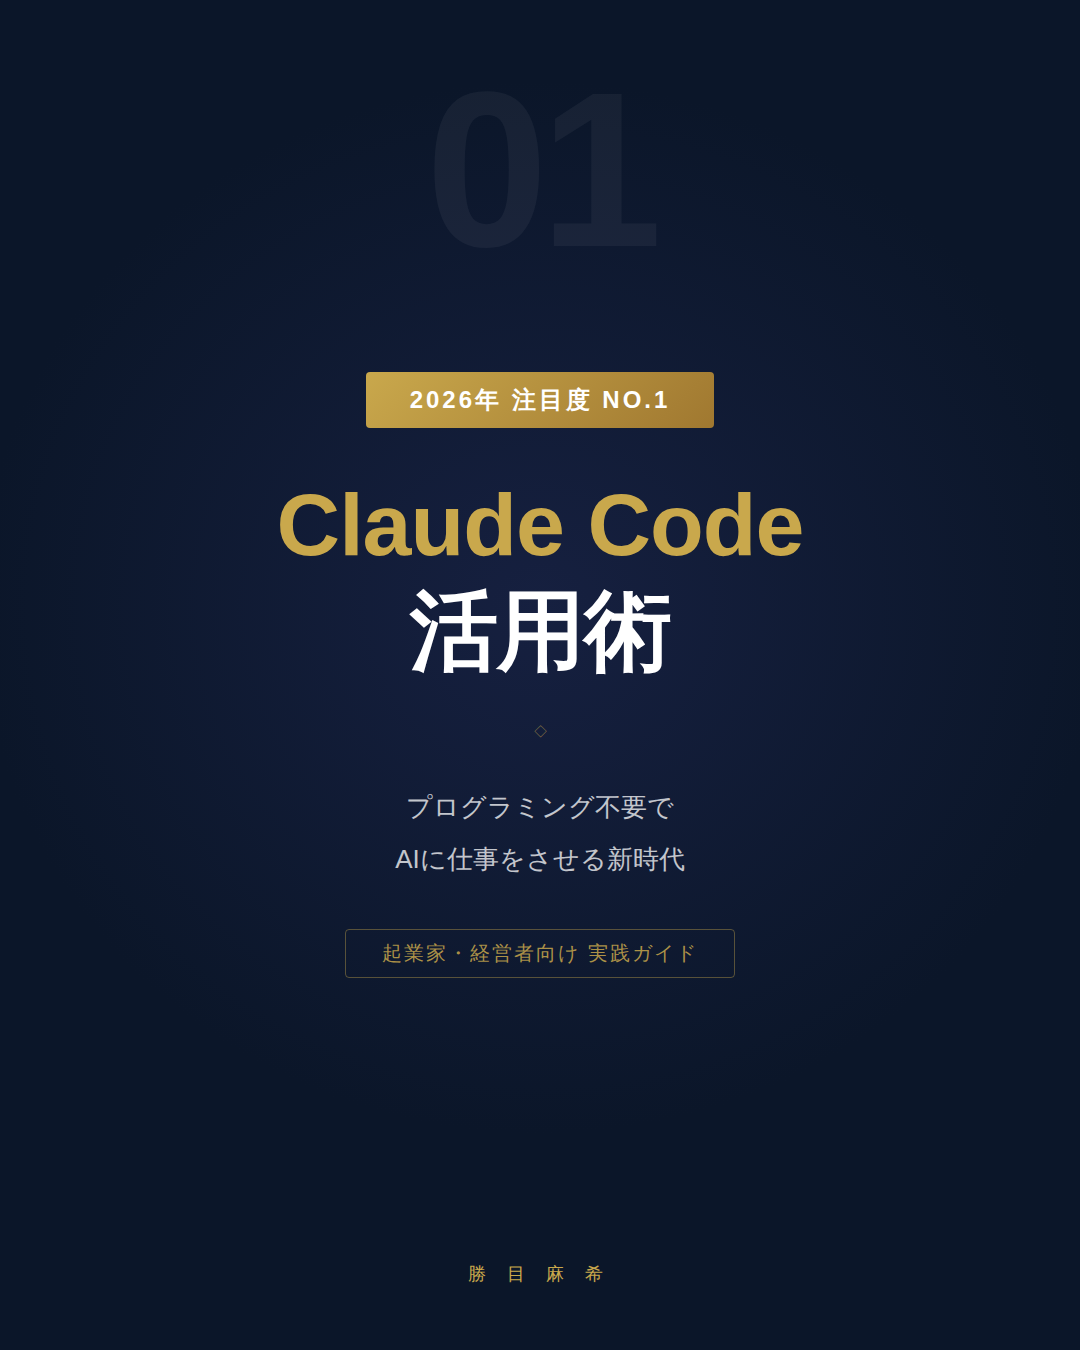
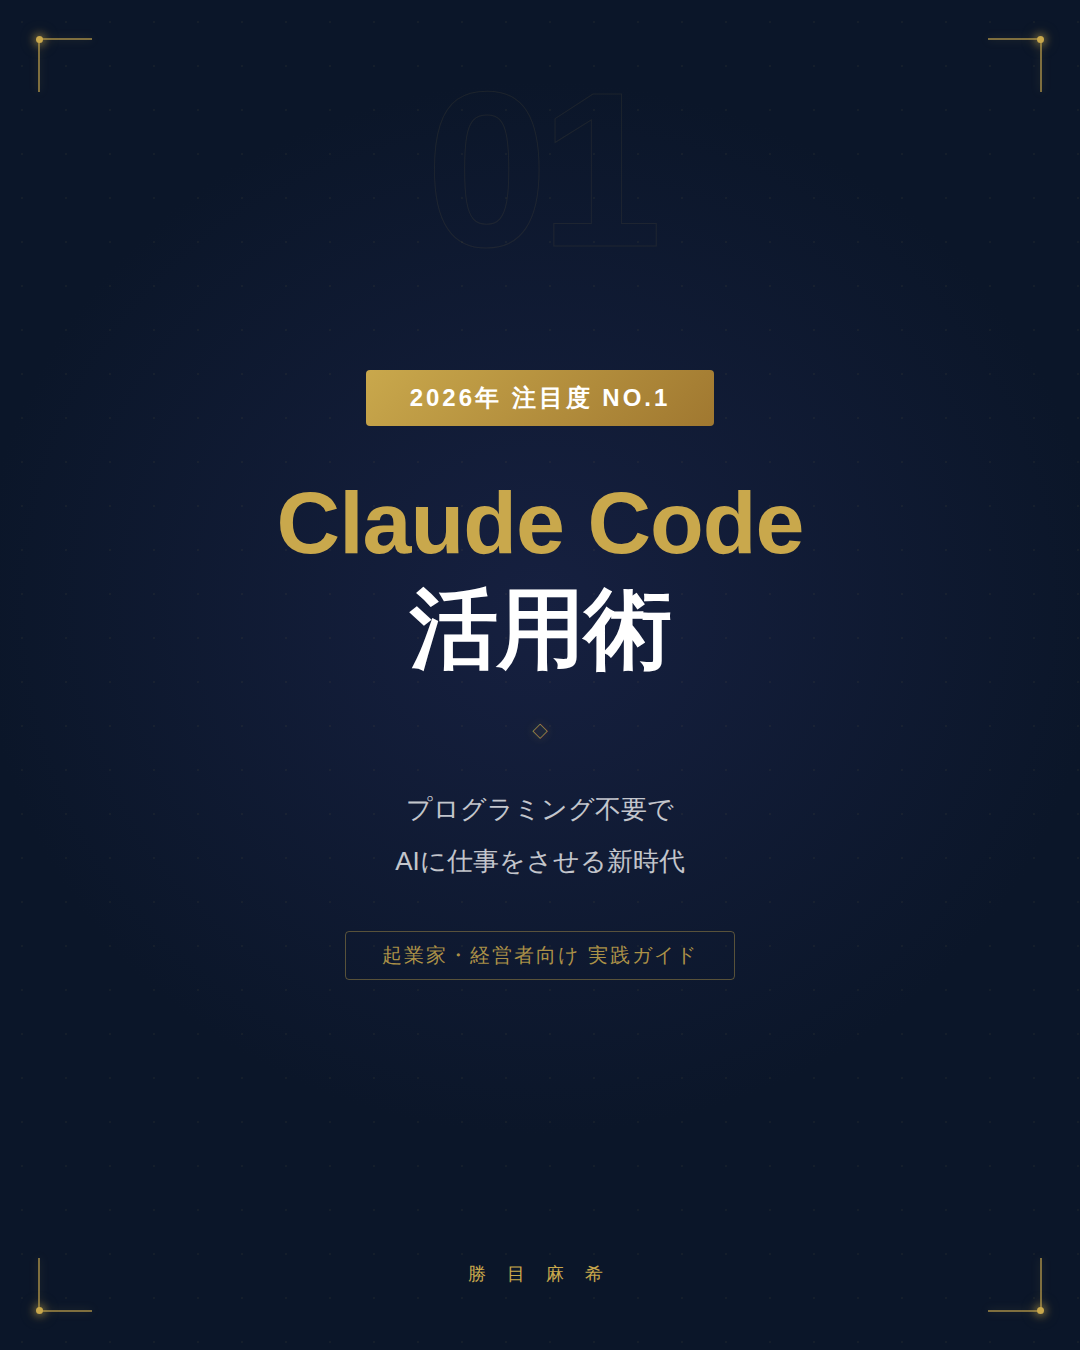
Add digital tech decorations to Claude Code carousel slides
- Dot grid background overlay on all 8 slides
- Tech corner brackets with glowing gold dots at all corners
- Neon glow divider lines (gradient + box-shadow)
- Outline-style bg slide numbers (-webkit-text-stroke)
- Regenerate posts/20260416/ PNGs with new design

https://claude.ai/code/session_01Myk739NMdXCS8a9enhgTma

diff --git a/posts/20260416/slide-08.html b/posts/20260416/slide-08.html
@@ -6,22 +6,32 @@
 <style>
 *{margin:0;padding:0;box-sizing:border-box}
 html,body{width:1080px;height:1350px;overflow:hidden;font-family:'Noto Sans JP',sans-serif}
+.tc{position:absolute;width:54px;height:54px;border-style:solid;border-color:rgba(201,168,76,0.6);filter:drop-shadow(0 0 4px rgba(201,168,76,0.35))}
+.tc.tl{top:38px;left:38px;border-width:2px 0 0 2px}
+.tc.tr{top:38px;right:38px;border-width:2px 2px 0 0}
+.tc.bl{bottom:38px;left:38px;border-width:0 0 2px 2px}
+.tc.br{bottom:38px;right:38px;border-width:0 2px 2px 0}
+.tc::before{content:'';position:absolute;width:7px;height:7px;border-radius:50%;background:#c9a84c;box-shadow:0 0 10px rgba(201,168,76,0.9),0 0 18px rgba(201,168,76,0.4)}
+.tc.tl::before{top:-4px;left:-4px}.tc.tr::before{top:-4px;right:-4px}
+.tc.bl::before{bottom:-4px;left:-4px}.tc.br::before{bottom:-4px;right:-4px}
 body{
-  background:radial-gradient(ellipse 80% 60% at 50% 45%,#162040 0%,#0b1629 65%);
+  background-image:
+    radial-gradient(circle,rgba(201,168,76,0.055) 1px,transparent 1px),
+    radial-gradient(ellipse 80% 60% at 50% 45%,#162040 0%,#0b1629 65%);
+  background-size:44px 44px,100% 100%;
   display:flex;flex-direction:column;align-items:center;justify-content:center;
   padding:80px 90px;position:relative;color:#fff;text-align:center;
 }
-/* Corner brackets */
-.cb{position:absolute;width:60px;height:60px;border-color:rgba(201,168,76,0.4);border-style:solid}
-.cb.tl{top:44px;left:44px;border-width:2px 0 0 2px}
-.cb.tr{top:44px;right:44px;border-width:2px 2px 0 0}
-.cb.bl{bottom:44px;left:44px;border-width:0 0 2px 2px}
-.cb.br{bottom:44px;right:44px;border-width:0 2px 2px 0}
+.bg-num{
+  position:absolute;top:60px;left:50%;transform:translateX(-50%);
+  font-size:220px;font-weight:900;color:transparent;-webkit-text-stroke:1px rgba(201,168,76,0.09);
+  line-height:1;pointer-events:none;white-space:nowrap;letter-spacing:-8px;
+}
 h2{font-size:60px;font-weight:900;color:#c9a84c;line-height:1.3;margin-bottom:28px}
 .sub-white{font-size:28px;color:rgba(255,255,255,0.88);line-height:2;margin-bottom:28px}
 .divider{display:flex;align-items:center;gap:14px;margin:0 auto 36px;max-width:280px}
-.divider::before,.divider::after{content:'';flex:1;height:1px;background:rgba(201,168,76,0.4)}
-.divider span{color:rgba(201,168,76,0.7);font-size:13px}
+.divider::before,.divider::after{content:'';flex:1;height:1px;background:linear-gradient(90deg,transparent,rgba(201,168,76,0.65),transparent);box-shadow:0 0 6px rgba(201,168,76,0.25)}
+.divider span{color:#c9a84c;font-size:16px;text-shadow:0 0 8px rgba(201,168,76,0.8)}
 .body{font-size:28px;color:rgba(255,255,255,0.88);line-height:2;margin-bottom:16px}
 .note{font-size:20px;color:rgba(255,255,255,0.4);line-height:1.9;margin-bottom:48px}
 .brand-wrap{display:flex;flex-direction:column;align-items:center;gap:8px}
@@ -30,10 +40,9 @@ h2{font-size:60px;font-weight:900;color:#c9a84c;line-height:1.3;margin-bottom:28
 </style>
 </head>
 <body>
-  <div class="cb tl"></div>
-  <div class="cb tr"></div>
-  <div class="cb bl"></div>
-  <div class="cb br"></div>
+  <div class="tc tl"></div><div class="tc tr"></div>
+  <div class="tc bl"></div><div class="tc br"></div>
+  <div class="bg-num">08</div>
   <h2>AIを活用して<br>「できること」を<br>一緒に広げませんか？</h2>
   <p class="sub-white">AI活用のご相談、<br>お気軽にどうぞ。</p>
   <div class="divider"><span>◇</span></div>

diff --git a/posts/20260416/slide-05.html b/posts/20260416/slide-05.html
@@ -6,25 +6,31 @@
 <style>
 *{margin:0;padding:0;box-sizing:border-box}
 html,body{width:1080px;height:1350px;overflow:hidden;font-family:'Noto Sans JP',sans-serif}
+.tc{position:absolute;width:54px;height:54px;border-style:solid;border-color:rgba(201,168,76,0.6);filter:drop-shadow(0 0 4px rgba(201,168,76,0.35))}
+.tc.tl{top:38px;left:38px;border-width:2px 0 0 2px}
+.tc.tr{top:38px;right:38px;border-width:2px 2px 0 0}
+.tc.bl{bottom:38px;left:38px;border-width:0 0 2px 2px}
+.tc.br{bottom:38px;right:38px;border-width:0 2px 2px 0}
+.tc::before{content:'';position:absolute;width:7px;height:7px;border-radius:50%;background:#c9a84c;box-shadow:0 0 10px rgba(201,168,76,0.9),0 0 18px rgba(201,168,76,0.4)}
+.tc.tl::before{top:-4px;left:-4px}.tc.tr::before{top:-4px;right:-4px}
+.tc.bl::before{bottom:-4px;left:-4px}.tc.br::before{bottom:-4px;right:-4px}
 body{
-  background:radial-gradient(ellipse 80% 60% at 50% 45%,#162040 0%,#0b1629 65%);
+  background-image:
+    radial-gradient(circle,rgba(201,168,76,0.055) 1px,transparent 1px),
+    radial-gradient(ellipse 80% 60% at 50% 45%,#162040 0%,#0b1629 65%);
+  background-size:44px 44px,100% 100%;
   display:flex;flex-direction:column;align-items:center;justify-content:center;
   padding:80px 90px;position:relative;color:#fff;text-align:center;
 }
 .bg-num{
   position:absolute;top:60px;left:50%;transform:translateX(-50%);
-  font-size:220px;font-weight:900;color:rgba(255,255,255,0.05);
+  font-size:220px;font-weight:900;color:transparent;-webkit-text-stroke:1px rgba(201,168,76,0.09);
   line-height:1;pointer-events:none;white-space:nowrap;letter-spacing:-8px;
-}
-/* Corner diamond decorations */
-.cdiamond{
-  position:absolute;width:38px;height:38px;
-  border:1.5px solid rgba(201,168,76,0.35);transform:rotate(45deg);
 }
 h2{font-size:56px;font-weight:900;color:#c9a84c;line-height:1.3;margin-bottom:28px}
 .divider{display:flex;align-items:center;gap:14px;margin:0 auto 40px;max-width:280px}
-.divider::before,.divider::after{content:'';flex:1;height:1px;background:rgba(201,168,76,0.4)}
-.divider span{color:rgba(201,168,76,0.7);font-size:13px}
+.divider::before,.divider::after{content:'';flex:1;height:1px;background:linear-gradient(90deg,transparent,rgba(201,168,76,0.65),transparent);box-shadow:0 0 6px rgba(201,168,76,0.25)}
+.divider span{color:#c9a84c;font-size:16px;text-shadow:0 0 8px rgba(201,168,76,0.8)}
 .body{font-size:28px;color:rgba(255,255,255,0.88);line-height:2;margin-bottom:24px}
 .accent{color:#c9a84c;font-weight:700}
 .brand{
@@ -34,9 +40,9 @@ h2{font-size:56px;font-weight:900;color:#c9a84c;line-height:1.3;margin-bottom:28
 </style>
 </head>
 <body>
+  <div class="tc tl"></div><div class="tc tr"></div>
+  <div class="tc bl"></div><div class="tc br"></div>
   <div class="bg-num">05</div>
-  <div class="cdiamond" style="top:52px;right:52px"></div>
-  <div class="cdiamond" style="bottom:120px;left:52px"></div>
   <h2>「Skills」で<br>繰り返し作業を自動化</h2>
   <div class="divider"><span>◇</span></div>
   <p class="body">毎回同じ指示を出すのは<br>面倒ですよね。</p>

diff --git a/posts/20260416/slide-01.html b/posts/20260416/slide-01.html
@@ -6,14 +6,25 @@
 <style>
 *{margin:0;padding:0;box-sizing:border-box}
 html,body{width:1080px;height:1350px;overflow:hidden;font-family:'Noto Sans JP',sans-serif}
+.tc{position:absolute;width:54px;height:54px;border-style:solid;border-color:rgba(201,168,76,0.6);filter:drop-shadow(0 0 4px rgba(201,168,76,0.35))}
+.tc.tl{top:38px;left:38px;border-width:2px 0 0 2px}
+.tc.tr{top:38px;right:38px;border-width:2px 2px 0 0}
+.tc.bl{bottom:38px;left:38px;border-width:0 0 2px 2px}
+.tc.br{bottom:38px;right:38px;border-width:0 2px 2px 0}
+.tc::before{content:'';position:absolute;width:7px;height:7px;border-radius:50%;background:#c9a84c;box-shadow:0 0 10px rgba(201,168,76,0.9),0 0 18px rgba(201,168,76,0.4)}
+.tc.tl::before{top:-4px;left:-4px}.tc.tr::before{top:-4px;right:-4px}
+.tc.bl::before{bottom:-4px;left:-4px}.tc.br::before{bottom:-4px;right:-4px}
 body{
-  background:radial-gradient(ellipse 80% 60% at 50% 45%,#162040 0%,#0b1629 65%);
+  background-image:
+    radial-gradient(circle,rgba(201,168,76,0.055) 1px,transparent 1px),
+    radial-gradient(ellipse 80% 60% at 50% 45%,#162040 0%,#0b1629 65%);
+  background-size:44px 44px,100% 100%;
   display:flex;flex-direction:column;align-items:center;justify-content:center;
   padding:80px 90px;position:relative;color:#fff;text-align:center;
 }
 .bg-num{
   position:absolute;top:60px;left:50%;transform:translateX(-50%);
-  font-size:220px;font-weight:900;color:rgba(255,255,255,0.05);
+  font-size:220px;font-weight:900;color:transparent;-webkit-text-stroke:1px rgba(201,168,76,0.09);
   line-height:1;pointer-events:none;white-space:nowrap;letter-spacing:-8px;
 }
 .no1-badge{
@@ -24,8 +35,8 @@ body{
 h1{font-size:88px;font-weight:900;line-height:1.2;color:#fff;margin-bottom:40px;letter-spacing:-1px}
 .gold{color:#c9a84c}
 .divider{display:flex;align-items:center;gap:14px;margin:0 auto 40px;max-width:280px}
-.divider::before,.divider::after{content:'';flex:1;height:1px;background:rgba(201,168,76,0.4)}
-.divider span{color:rgba(201,168,76,0.7);font-size:13px}
+.divider::before,.divider::after{content:'';flex:1;height:1px;background:linear-gradient(90deg,transparent,rgba(201,168,76,0.65),transparent);box-shadow:0 0 6px rgba(201,168,76,0.25)}
+.divider span{color:#c9a84c;font-size:16px;text-shadow:0 0 8px rgba(201,168,76,0.8)}
 .sub{font-size:26px;color:rgba(255,255,255,0.75);line-height:2;margin-bottom:44px}
 .tag{
   display:inline-block;border:1px solid rgba(201,168,76,0.4);
@@ -39,6 +50,8 @@ h1{font-size:88px;font-weight:900;line-height:1.2;color:#fff;margin-bottom:40px;
 </style>
 </head>
 <body>
+  <div class="tc tl"></div><div class="tc tr"></div>
+  <div class="tc bl"></div><div class="tc br"></div>
   <div class="bg-num">01</div>
   <div class="no1-badge">2026年 注目度 NO.1</div>
   <h1><span class="gold">Claude Code</span><br>活用術</h1>

diff --git a/posts/20260416/slide-03.html b/posts/20260416/slide-03.html
@@ -6,20 +6,31 @@
 <style>
 *{margin:0;padding:0;box-sizing:border-box}
 html,body{width:1080px;height:1350px;overflow:hidden;font-family:'Noto Sans JP',sans-serif}
+.tc{position:absolute;width:54px;height:54px;border-style:solid;border-color:rgba(201,168,76,0.6);filter:drop-shadow(0 0 4px rgba(201,168,76,0.35))}
+.tc.tl{top:38px;left:38px;border-width:2px 0 0 2px}
+.tc.tr{top:38px;right:38px;border-width:2px 2px 0 0}
+.tc.bl{bottom:38px;left:38px;border-width:0 0 2px 2px}
+.tc.br{bottom:38px;right:38px;border-width:0 2px 2px 0}
+.tc::before{content:'';position:absolute;width:7px;height:7px;border-radius:50%;background:#c9a84c;box-shadow:0 0 10px rgba(201,168,76,0.9),0 0 18px rgba(201,168,76,0.4)}
+.tc.tl::before{top:-4px;left:-4px}.tc.tr::before{top:-4px;right:-4px}
+.tc.bl::before{bottom:-4px;left:-4px}.tc.br::before{bottom:-4px;right:-4px}
 body{
-  background:radial-gradient(ellipse 80% 60% at 50% 45%,#162040 0%,#0b1629 65%);
+  background-image:
+    radial-gradient(circle,rgba(201,168,76,0.055) 1px,transparent 1px),
+    radial-gradient(ellipse 80% 60% at 50% 45%,#162040 0%,#0b1629 65%);
+  background-size:44px 44px,100% 100%;
   display:flex;flex-direction:column;align-items:center;justify-content:center;
   padding:80px 90px;position:relative;color:#fff;text-align:center;
 }
 .bg-num{
   position:absolute;top:60px;left:50%;transform:translateX(-50%);
-  font-size:220px;font-weight:900;color:rgba(255,255,255,0.05);
+  font-size:220px;font-weight:900;color:transparent;-webkit-text-stroke:1px rgba(201,168,76,0.09);
   line-height:1;pointer-events:none;white-space:nowrap;letter-spacing:-8px;
 }
 h2{font-size:56px;font-weight:900;color:#c9a84c;line-height:1.3;margin-bottom:28px}
 .divider{display:flex;align-items:center;gap:14px;margin:0 auto 40px;max-width:280px}
-.divider::before,.divider::after{content:'';flex:1;height:1px;background:rgba(201,168,76,0.4)}
-.divider span{color:rgba(201,168,76,0.7);font-size:13px}
+.divider::before,.divider::after{content:'';flex:1;height:1px;background:linear-gradient(90deg,transparent,rgba(201,168,76,0.65),transparent);box-shadow:0 0 6px rgba(201,168,76,0.25)}
+.divider span{color:#c9a84c;font-size:16px;text-shadow:0 0 8px rgba(201,168,76,0.8)}
 .body{font-size:28px;color:rgba(255,255,255,0.88);line-height:2;margin-bottom:24px}
 .accent{color:#c9a84c;font-weight:700}
 .large{font-size:32px;color:rgba(255,255,255,0.95);font-weight:500;line-height:1.7;margin-bottom:28px}
@@ -31,6 +42,8 @@ h2{font-size:56px;font-weight:900;color:#c9a84c;line-height:1.3;margin-bottom:28
 </style>
 </head>
 <body>
+  <div class="tc tl"></div><div class="tc tr"></div>
+  <div class="tc bl"></div><div class="tc br"></div>
   <div class="bg-num">03</div>
   <h2>たとえば、<br>LPを自分で作れます</h2>
   <div class="divider"><span>◇</span></div>

diff --git a/posts/20260416/slide-07.html b/posts/20260416/slide-07.html
@@ -6,20 +6,31 @@
 <style>
 *{margin:0;padding:0;box-sizing:border-box}
 html,body{width:1080px;height:1350px;overflow:hidden;font-family:'Noto Sans JP',sans-serif}
+.tc{position:absolute;width:54px;height:54px;border-style:solid;border-color:rgba(201,168,76,0.6);filter:drop-shadow(0 0 4px rgba(201,168,76,0.35))}
+.tc.tl{top:38px;left:38px;border-width:2px 0 0 2px}
+.tc.tr{top:38px;right:38px;border-width:2px 2px 0 0}
+.tc.bl{bottom:38px;left:38px;border-width:0 0 2px 2px}
+.tc.br{bottom:38px;right:38px;border-width:0 2px 2px 0}
+.tc::before{content:'';position:absolute;width:7px;height:7px;border-radius:50%;background:#c9a84c;box-shadow:0 0 10px rgba(201,168,76,0.9),0 0 18px rgba(201,168,76,0.4)}
+.tc.tl::before{top:-4px;left:-4px}.tc.tr::before{top:-4px;right:-4px}
+.tc.bl::before{bottom:-4px;left:-4px}.tc.br::before{bottom:-4px;right:-4px}
 body{
-  background:radial-gradient(ellipse 80% 60% at 50% 45%,#162040 0%,#0b1629 65%);
+  background-image:
+    radial-gradient(circle,rgba(201,168,76,0.055) 1px,transparent 1px),
+    radial-gradient(ellipse 80% 60% at 50% 45%,#162040 0%,#0b1629 65%);
+  background-size:44px 44px,100% 100%;
   display:flex;flex-direction:column;align-items:center;justify-content:center;
   padding:80px 90px;position:relative;color:#fff;text-align:center;
 }
 .bg-num{
   position:absolute;top:60px;left:50%;transform:translateX(-50%);
-  font-size:220px;font-weight:900;color:rgba(255,255,255,0.05);
+  font-size:220px;font-weight:900;color:transparent;-webkit-text-stroke:1px rgba(201,168,76,0.09);
   line-height:1;pointer-events:none;white-space:nowrap;letter-spacing:-8px;
 }
 h2{font-size:56px;font-weight:900;color:#c9a84c;line-height:1.3;margin-bottom:28px}
 .divider{display:flex;align-items:center;gap:14px;margin:0 auto 40px;max-width:280px}
-.divider::before,.divider::after{content:'';flex:1;height:1px;background:rgba(201,168,76,0.4)}
-.divider span{color:rgba(201,168,76,0.7);font-size:13px}
+.divider::before,.divider::after{content:'';flex:1;height:1px;background:linear-gradient(90deg,transparent,rgba(201,168,76,0.65),transparent);box-shadow:0 0 6px rgba(201,168,76,0.25)}
+.divider span{color:#c9a84c;font-size:16px;text-shadow:0 0 8px rgba(201,168,76,0.8)}
 .body{font-size:28px;color:rgba(255,255,255,0.88);line-height:2;margin-bottom:24px}
 .accent{color:#c9a84c;font-weight:700}
 .bold-white{font-size:30px;font-weight:700;color:#fff;line-height:1.8;margin-bottom:24px}
@@ -31,6 +42,8 @@ h2{font-size:56px;font-weight:900;color:#c9a84c;line-height:1.3;margin-bottom:28
 </style>
 </head>
 <body>
+  <div class="tc tl"></div><div class="tc tr"></div>
+  <div class="tc bl"></div><div class="tc br"></div>
   <div class="bg-num">07</div>
   <h2>なぜ今、<br>起業家が使うべきか</h2>
   <div class="divider"><span>◇</span></div>

diff --git a/posts/20260416/slide-04.html b/posts/20260416/slide-04.html
@@ -6,20 +6,31 @@
 <style>
 *{margin:0;padding:0;box-sizing:border-box}
 html,body{width:1080px;height:1350px;overflow:hidden;font-family:'Noto Sans JP',sans-serif}
+.tc{position:absolute;width:54px;height:54px;border-style:solid;border-color:rgba(201,168,76,0.6);filter:drop-shadow(0 0 4px rgba(201,168,76,0.35))}
+.tc.tl{top:38px;left:38px;border-width:2px 0 0 2px}
+.tc.tr{top:38px;right:38px;border-width:2px 2px 0 0}
+.tc.bl{bottom:38px;left:38px;border-width:0 0 2px 2px}
+.tc.br{bottom:38px;right:38px;border-width:0 2px 2px 0}
+.tc::before{content:'';position:absolute;width:7px;height:7px;border-radius:50%;background:#c9a84c;box-shadow:0 0 10px rgba(201,168,76,0.9),0 0 18px rgba(201,168,76,0.4)}
+.tc.tl::before{top:-4px;left:-4px}.tc.tr::before{top:-4px;right:-4px}
+.tc.bl::before{bottom:-4px;left:-4px}.tc.br::before{bottom:-4px;right:-4px}
 body{
-  background:radial-gradient(ellipse 80% 60% at 50% 45%,#162040 0%,#0b1629 65%);
+  background-image:
+    radial-gradient(circle,rgba(201,168,76,0.055) 1px,transparent 1px),
+    radial-gradient(ellipse 80% 60% at 50% 45%,#162040 0%,#0b1629 65%);
+  background-size:44px 44px,100% 100%;
   display:flex;flex-direction:column;align-items:center;justify-content:center;
   padding:80px 90px;position:relative;color:#fff;text-align:center;
 }
 .bg-num{
   position:absolute;top:60px;left:50%;transform:translateX(-50%);
-  font-size:220px;font-weight:900;color:rgba(255,255,255,0.05);
+  font-size:220px;font-weight:900;color:transparent;-webkit-text-stroke:1px rgba(201,168,76,0.09);
   line-height:1;pointer-events:none;white-space:nowrap;letter-spacing:-8px;
 }
 h2{font-size:56px;font-weight:900;color:#c9a84c;line-height:1.3;margin-bottom:28px}
 .divider{display:flex;align-items:center;gap:14px;margin:0 auto 40px;max-width:280px}
-.divider::before,.divider::after{content:'';flex:1;height:1px;background:rgba(201,168,76,0.4)}
-.divider span{color:rgba(201,168,76,0.7);font-size:13px}
+.divider::before,.divider::after{content:'';flex:1;height:1px;background:linear-gradient(90deg,transparent,rgba(201,168,76,0.65),transparent);box-shadow:0 0 6px rgba(201,168,76,0.25)}
+.divider span{color:#c9a84c;font-size:16px;text-shadow:0 0 8px rgba(201,168,76,0.8)}
 .body{font-size:28px;color:rgba(255,255,255,0.88);line-height:2;margin-bottom:24px}
 .accent{color:#c9a84c;font-weight:700}
 .note{font-size:21px;color:rgba(255,255,255,0.45);line-height:1.9;margin-top:8px}
@@ -30,6 +41,8 @@ h2{font-size:56px;font-weight:900;color:#c9a84c;line-height:1.3;margin-bottom:28
 </style>
 </head>
 <body>
+  <div class="tc tl"></div><div class="tc tr"></div>
+  <div class="tc bl"></div><div class="tc br"></div>
   <div class="bg-num">04</div>
   <h2>業務ツールだって<br>作れます</h2>
   <div class="divider"><span>◇</span></div>

diff --git a/posts/20260416/slide-02.html b/posts/20260416/slide-02.html
@@ -6,20 +6,31 @@
 <style>
 *{margin:0;padding:0;box-sizing:border-box}
 html,body{width:1080px;height:1350px;overflow:hidden;font-family:'Noto Sans JP',sans-serif}
+.tc{position:absolute;width:54px;height:54px;border-style:solid;border-color:rgba(201,168,76,0.6);filter:drop-shadow(0 0 4px rgba(201,168,76,0.35))}
+.tc.tl{top:38px;left:38px;border-width:2px 0 0 2px}
+.tc.tr{top:38px;right:38px;border-width:2px 2px 0 0}
+.tc.bl{bottom:38px;left:38px;border-width:0 0 2px 2px}
+.tc.br{bottom:38px;right:38px;border-width:0 2px 2px 0}
+.tc::before{content:'';position:absolute;width:7px;height:7px;border-radius:50%;background:#c9a84c;box-shadow:0 0 10px rgba(201,168,76,0.9),0 0 18px rgba(201,168,76,0.4)}
+.tc.tl::before{top:-4px;left:-4px}.tc.tr::before{top:-4px;right:-4px}
+.tc.bl::before{bottom:-4px;left:-4px}.tc.br::before{bottom:-4px;right:-4px}
 body{
-  background:radial-gradient(ellipse 80% 60% at 50% 45%,#162040 0%,#0b1629 65%);
+  background-image:
+    radial-gradient(circle,rgba(201,168,76,0.055) 1px,transparent 1px),
+    radial-gradient(ellipse 80% 60% at 50% 45%,#162040 0%,#0b1629 65%);
+  background-size:44px 44px,100% 100%;
   display:flex;flex-direction:column;align-items:center;justify-content:center;
   padding:80px 90px;position:relative;color:#fff;text-align:center;
 }
 .bg-num{
   position:absolute;top:60px;left:50%;transform:translateX(-50%);
-  font-size:220px;font-weight:900;color:rgba(255,255,255,0.05);
+  font-size:220px;font-weight:900;color:transparent;-webkit-text-stroke:1px rgba(201,168,76,0.09);
   line-height:1;pointer-events:none;white-space:nowrap;letter-spacing:-8px;
 }
 h2{font-size:58px;font-weight:900;color:#c9a84c;line-height:1.3;margin-bottom:28px}
 .divider{display:flex;align-items:center;gap:14px;margin:0 auto 40px;max-width:280px}
-.divider::before,.divider::after{content:'';flex:1;height:1px;background:rgba(201,168,76,0.4)}
-.divider span{color:rgba(201,168,76,0.7);font-size:13px}
+.divider::before,.divider::after{content:'';flex:1;height:1px;background:linear-gradient(90deg,transparent,rgba(201,168,76,0.65),transparent);box-shadow:0 0 6px rgba(201,168,76,0.25)}
+.divider span{color:#c9a84c;font-size:16px;text-shadow:0 0 8px rgba(201,168,76,0.8)}
 .body{font-size:28px;color:rgba(255,255,255,0.88);line-height:2;margin-bottom:24px}
 .accent{color:#c9a84c;font-weight:700}
 .note{font-size:21px;color:rgba(255,255,255,0.45);line-height:1.9;margin-top:8px}
@@ -30,6 +41,8 @@ h2{font-size:58px;font-weight:900;color:#c9a84c;line-height:1.3;margin-bottom:28
 </style>
 </head>
 <body>
+  <div class="tc tl"></div><div class="tc tr"></div>
+  <div class="tc bl"></div><div class="tc br"></div>
   <div class="bg-num">02</div>
   <h2>Claude Codeって<br>何？</h2>
   <div class="divider"><span>◇</span></div>

diff --git a/posts/20260416/slide-06.html b/posts/20260416/slide-06.html
@@ -6,20 +6,31 @@
 <style>
 *{margin:0;padding:0;box-sizing:border-box}
 html,body{width:1080px;height:1350px;overflow:hidden;font-family:'Noto Sans JP',sans-serif}
+.tc{position:absolute;width:54px;height:54px;border-style:solid;border-color:rgba(201,168,76,0.6);filter:drop-shadow(0 0 4px rgba(201,168,76,0.35))}
+.tc.tl{top:38px;left:38px;border-width:2px 0 0 2px}
+.tc.tr{top:38px;right:38px;border-width:2px 2px 0 0}
+.tc.bl{bottom:38px;left:38px;border-width:0 0 2px 2px}
+.tc.br{bottom:38px;right:38px;border-width:0 2px 2px 0}
+.tc::before{content:'';position:absolute;width:7px;height:7px;border-radius:50%;background:#c9a84c;box-shadow:0 0 10px rgba(201,168,76,0.9),0 0 18px rgba(201,168,76,0.4)}
+.tc.tl::before{top:-4px;left:-4px}.tc.tr::before{top:-4px;right:-4px}
+.tc.bl::before{bottom:-4px;left:-4px}.tc.br::before{bottom:-4px;right:-4px}
 body{
-  background:radial-gradient(ellipse 80% 60% at 50% 45%,#162040 0%,#0b1629 65%);
+  background-image:
+    radial-gradient(circle,rgba(201,168,76,0.055) 1px,transparent 1px),
+    radial-gradient(ellipse 80% 60% at 50% 45%,#162040 0%,#0b1629 65%);
+  background-size:44px 44px,100% 100%;
   display:flex;flex-direction:column;align-items:center;justify-content:center;
   padding:80px 90px;position:relative;color:#fff;text-align:center;
 }
 .bg-num{
   position:absolute;top:60px;left:50%;transform:translateX(-50%);
-  font-size:220px;font-weight:900;color:rgba(255,255,255,0.05);
+  font-size:220px;font-weight:900;color:transparent;-webkit-text-stroke:1px rgba(201,168,76,0.09);
   line-height:1;pointer-events:none;white-space:nowrap;letter-spacing:-8px;
 }
 h2{font-size:56px;font-weight:900;color:#c9a84c;line-height:1.3;margin-bottom:28px}
 .divider{display:flex;align-items:center;gap:14px;margin:0 auto 44px;max-width:280px}
-.divider::before,.divider::after{content:'';flex:1;height:1px;background:rgba(201,168,76,0.4)}
-.divider span{color:rgba(201,168,76,0.7);font-size:13px}
+.divider::before,.divider::after{content:'';flex:1;height:1px;background:linear-gradient(90deg,transparent,rgba(201,168,76,0.65),transparent);box-shadow:0 0 6px rgba(201,168,76,0.25)}
+.divider span{color:#c9a84c;font-size:16px;text-shadow:0 0 8px rgba(201,168,76,0.8)}
 .steps{display:flex;flex-direction:column;gap:0;width:100%}
 .step-card{
   background:rgba(255,255,255,0.05);border:1px solid rgba(255,255,255,0.1);
@@ -45,6 +56,8 @@ h2{font-size:56px;font-weight:900;color:#c9a84c;line-height:1.3;margin-bottom:28
 </style>
 </head>
 <body>
+  <div class="tc tl"></div><div class="tc tr"></div>
+  <div class="tc bl"></div><div class="tc br"></div>
   <div class="bg-num">06</div>
   <h2>始め方は<br>たったの3ステップ</h2>
   <div class="divider"><span>◇</span></div>
